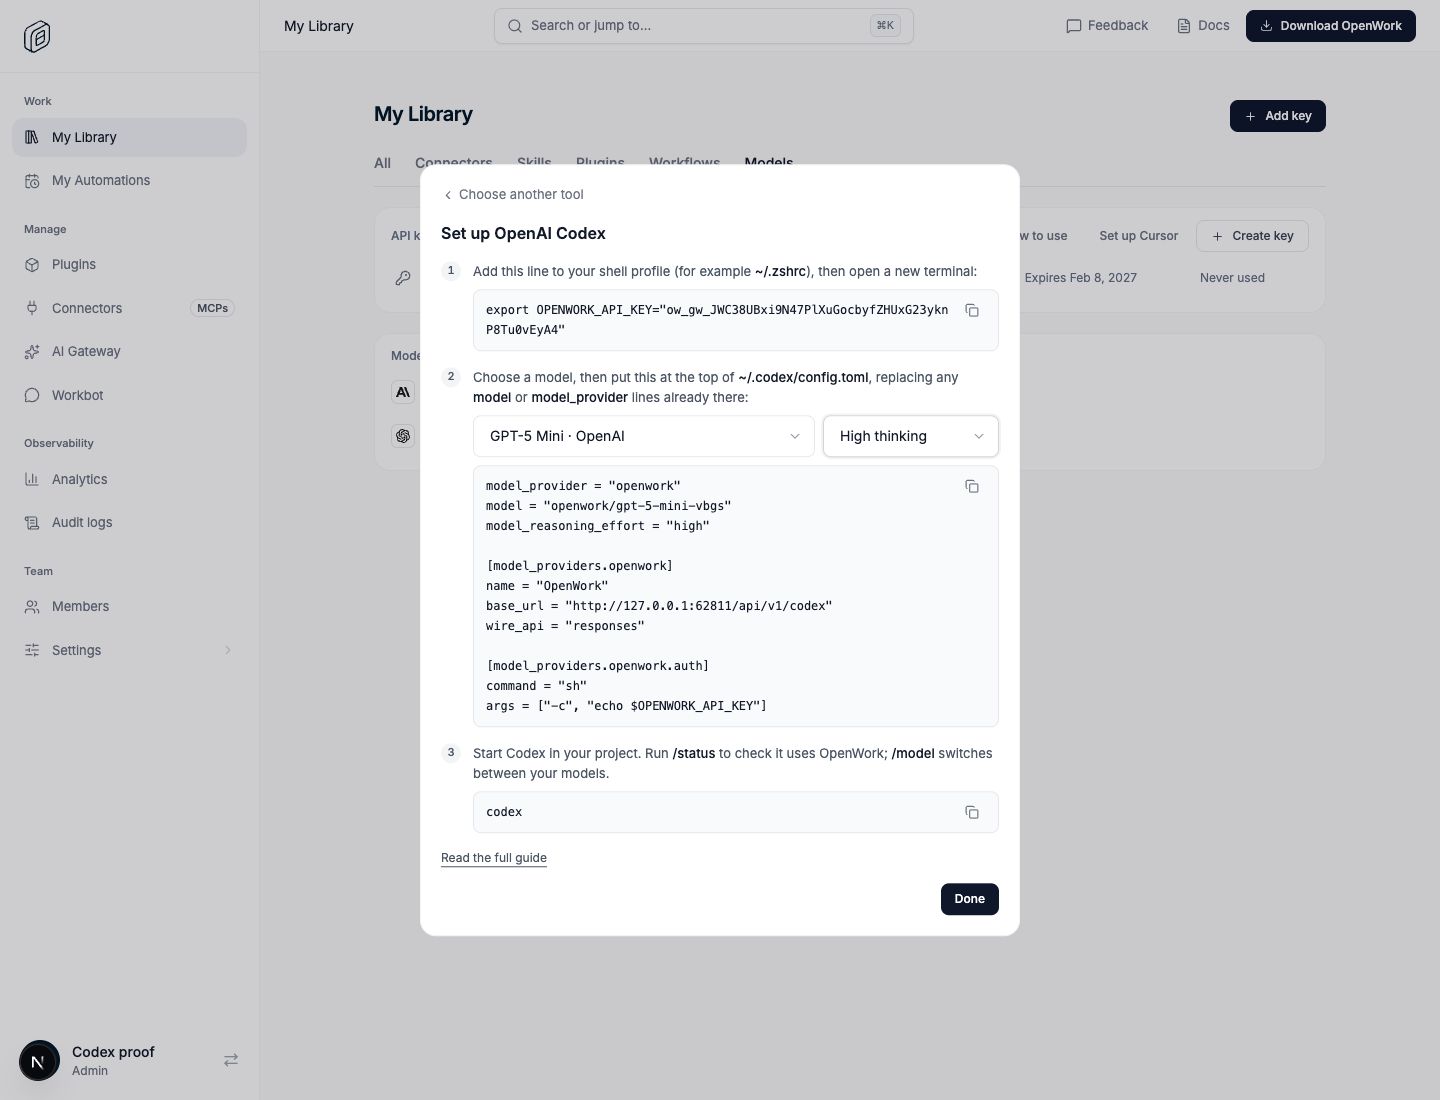
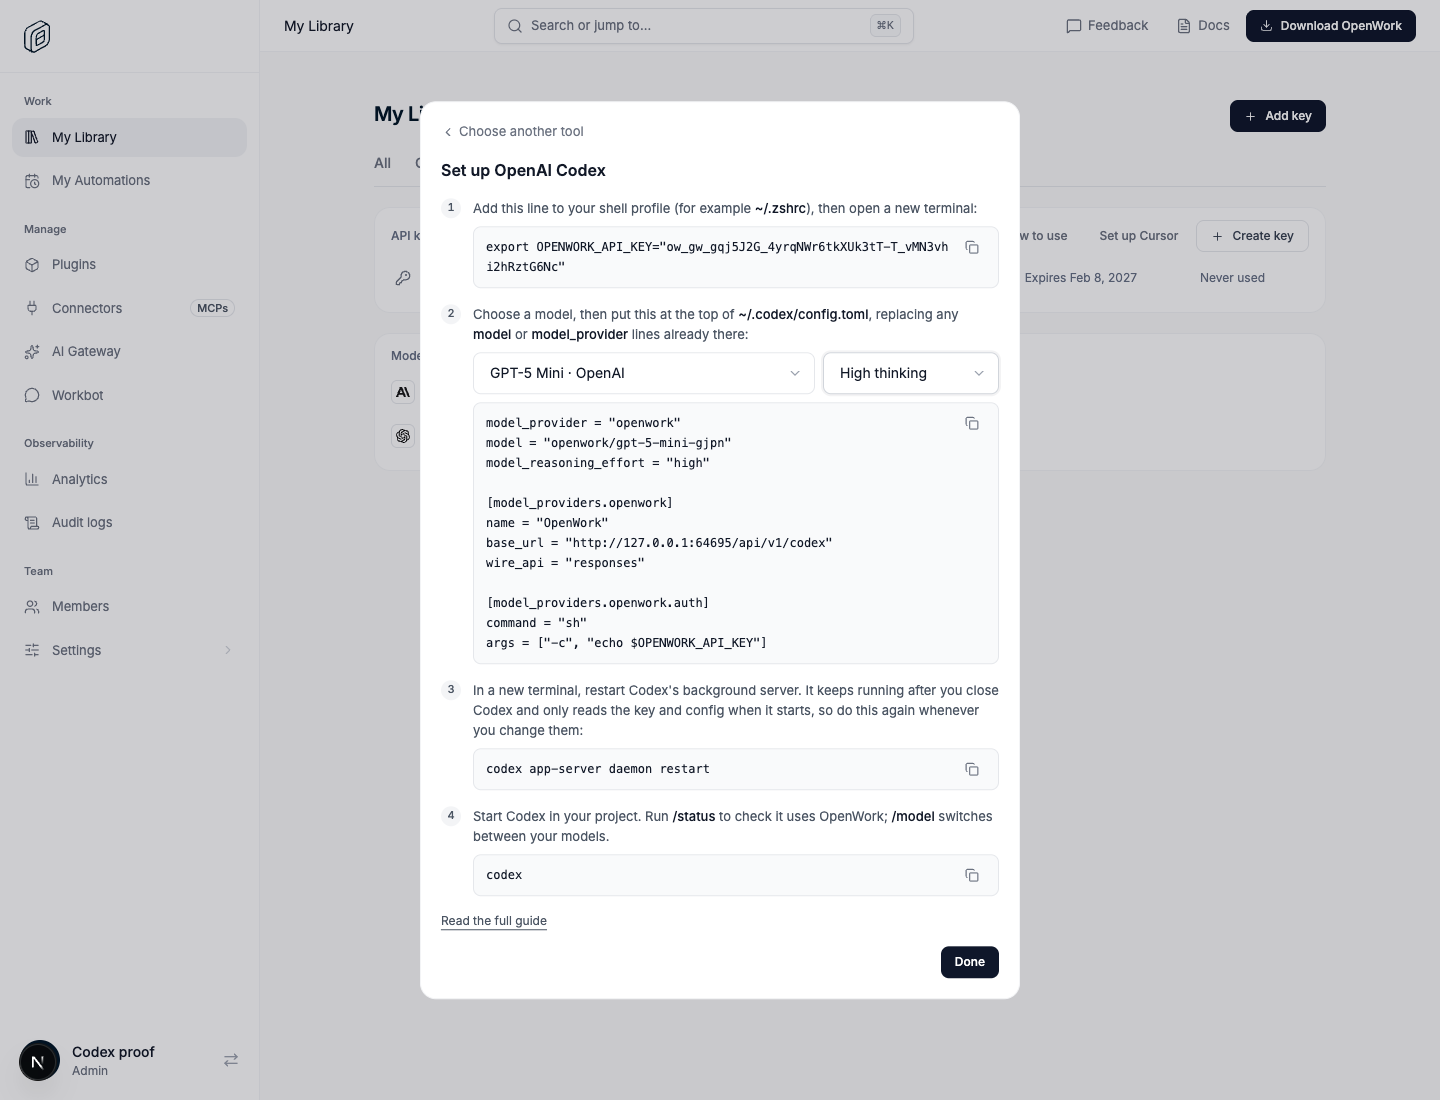
fix(den): restart Codex's background server in the Codex setup steps
Codex's app-server daemon runs the auth command with the environment and config
it started with, and outlives the terminal. A key added to ~/.zshrc after it
first started kept failing in every new terminal. The steps and docs now say to
run codex app-server daemon restart from a terminal that has the key.

Changed region(s): [[0.3125, 0.2782, 0.6875, 0.8036], [0.2812, 0.0927, 0.7188, 0.2473], [0.2812, 0.8036, 0.7188, 0.9273]]

diff --git a/ee/apps/den-web/app/(den)/dashboard/_components/gateway-tool-setup.tsx b/ee/apps/den-web/app/(den)/dashboard/_components/gateway-tool-setup.tsx
@@ -307,7 +307,10 @@ export function CodexSteps({ apiKey, baseUrl }: { apiKey: string | null; baseUrl
         >
           Choose a model, then put this at the top of <Strong>~/.codex/config.toml</Strong>, replacing any <Strong>model</Strong> or <Strong>model_provider</Strong> lines already there:
         </SetupStep>
-        <SetupStep number={3} field={<CopyField value="codex" label="Copy the command" />}>
+        <SetupStep number={3} field={<CopyField value="codex app-server daemon restart" label="Copy the restart command" testId="gateway-tool-codex-restart" />}>
+          In a new terminal, restart Codex&apos;s background server so it picks up the key and config. Do this again whenever you change either:
+        </SetupStep>
+        <SetupStep number={4} field={<CopyField value="codex" label="Copy the command" />}>
           Start Codex in your project. Run <Strong>/status</Strong> to check it uses OpenWork; <Strong>/model</Strong> switches between your models.
         </SetupStep>
       </ol>

diff --git a/evals/proofs/gateway-codex.proof.test.ts b/evals/proofs/gateway-codex.proof.test.ts
@@ -74,6 +74,9 @@ test("a member creates a key, picks Codex, and Codex's requests with that config
       config.base_url === `${world.gatewayUrl}/api/v1/codex` && config.model_provider === "openwork" && config.model_reasoning_effort === "high" && text.includes("echo $OPENWORK_API_KEY"),
     );
     expect(envLine).toMatch(/^export OPENWORK_API_KEY="ow_gw_[^"]+"$/);
+    // Codex's background server keeps the key and config it started with, so the steps restart it.
+    const restart = (await probe.dom('[data-testid="gateway-tool-codex-restart"]')).elements[0]?.text ?? "";
+    expect(restart).toBe("codex app-server daemon restart");
     expect(config.model_provider).toBe("openwork");
     expect(config.base_url).toBe(`${world.gatewayUrl}/api/v1/codex`);
     expect(config.wire_api).toBe("responses");

diff --git a/docs/features/gateway-cursor-setup/README.md b/docs/features/gateway-cursor-setup/README.md
@@ -208,7 +208,14 @@ tools; Claude Haiku wrote `apply_patch` text with lost indentation when given
 it as a function, so translated models don't get it; Codex's picker listed its
 own OpenAI models first. Codex 0.167 keeps the catalog in a background
 app-server daemon: a model added later shows after `codex app-server daemon
-restart`. Not checked: Azure OpenAI, Windows, images, and Codex's own OpenAI
+restart`. The daemon also runs the `auth` command and keeps the environment and
+config it started with, and it outlives the terminal: someone who put
+`OPENWORK_API_KEY` in `~/.zshrc` after the daemon first started gets 401s in
+every new terminal until they restart it. Checked 2026-11-10: a daemon started
+without the variable kept sending an empty key from fresh shells that had it,
+and from a key file the auth command read; `codex app-server daemon restart`
+from a shell with the variable fixed it (`codex exec` is not affected: it reads
+the shell's environment). The steps now have a restart step. Not checked: Azure OpenAI, Windows, images, and Codex's own OpenAI
 models chosen in `/model` when the member has the same model.
 
 ## Turning it off
